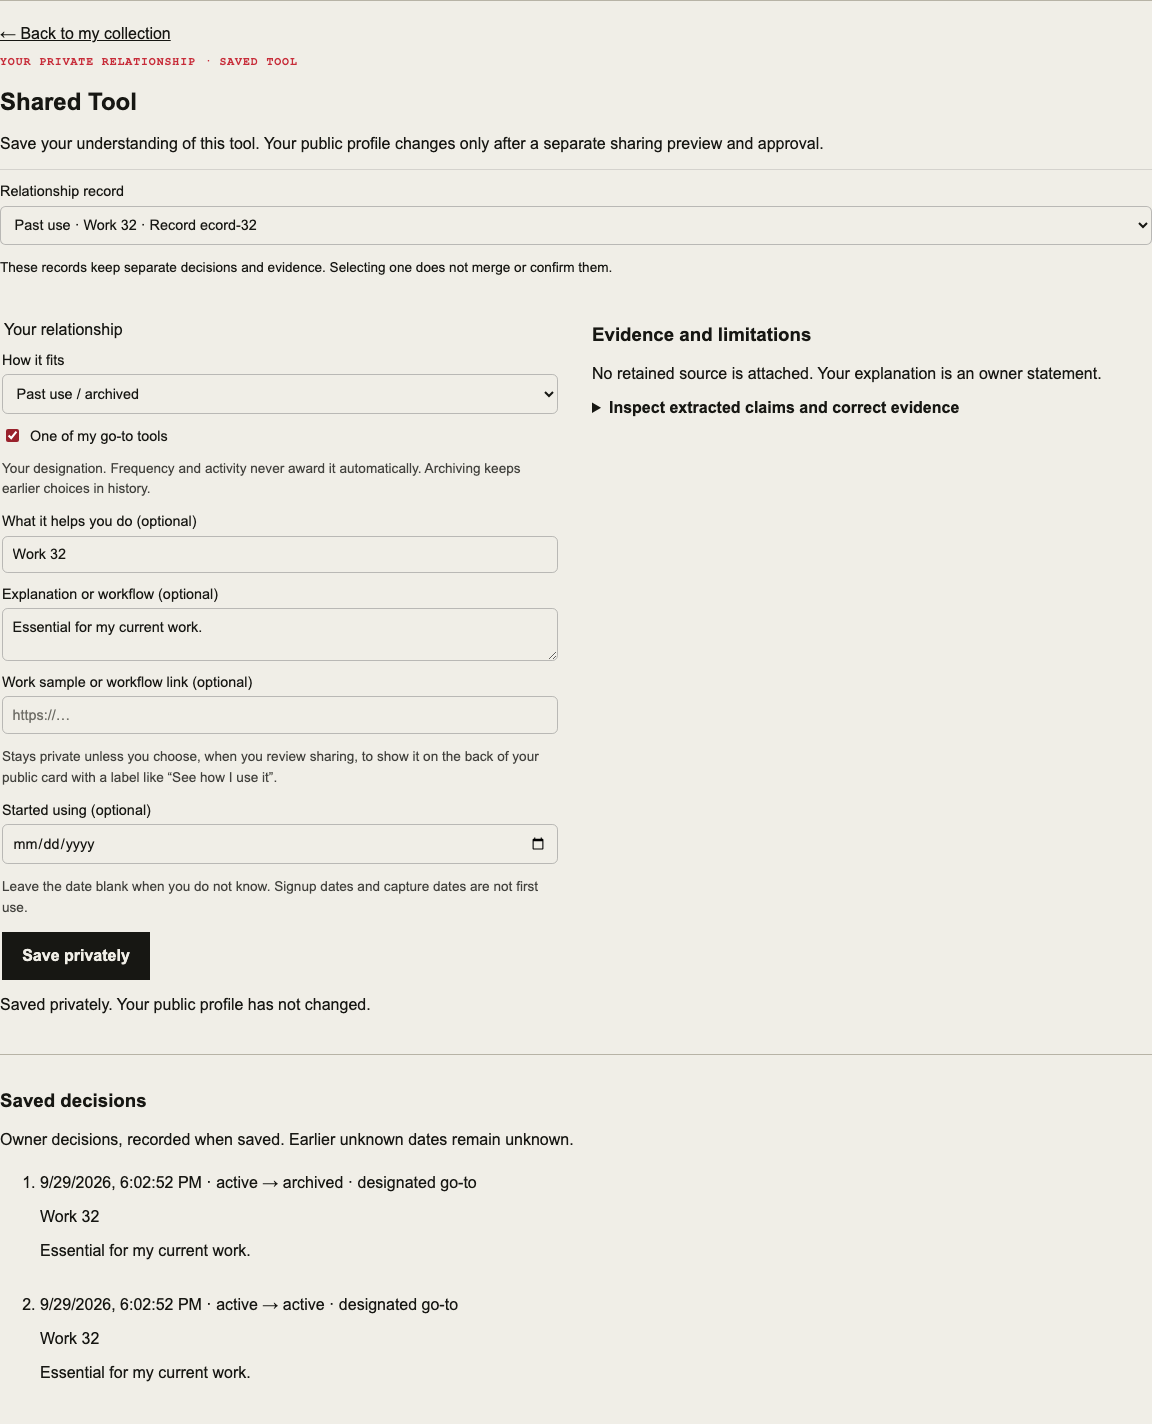
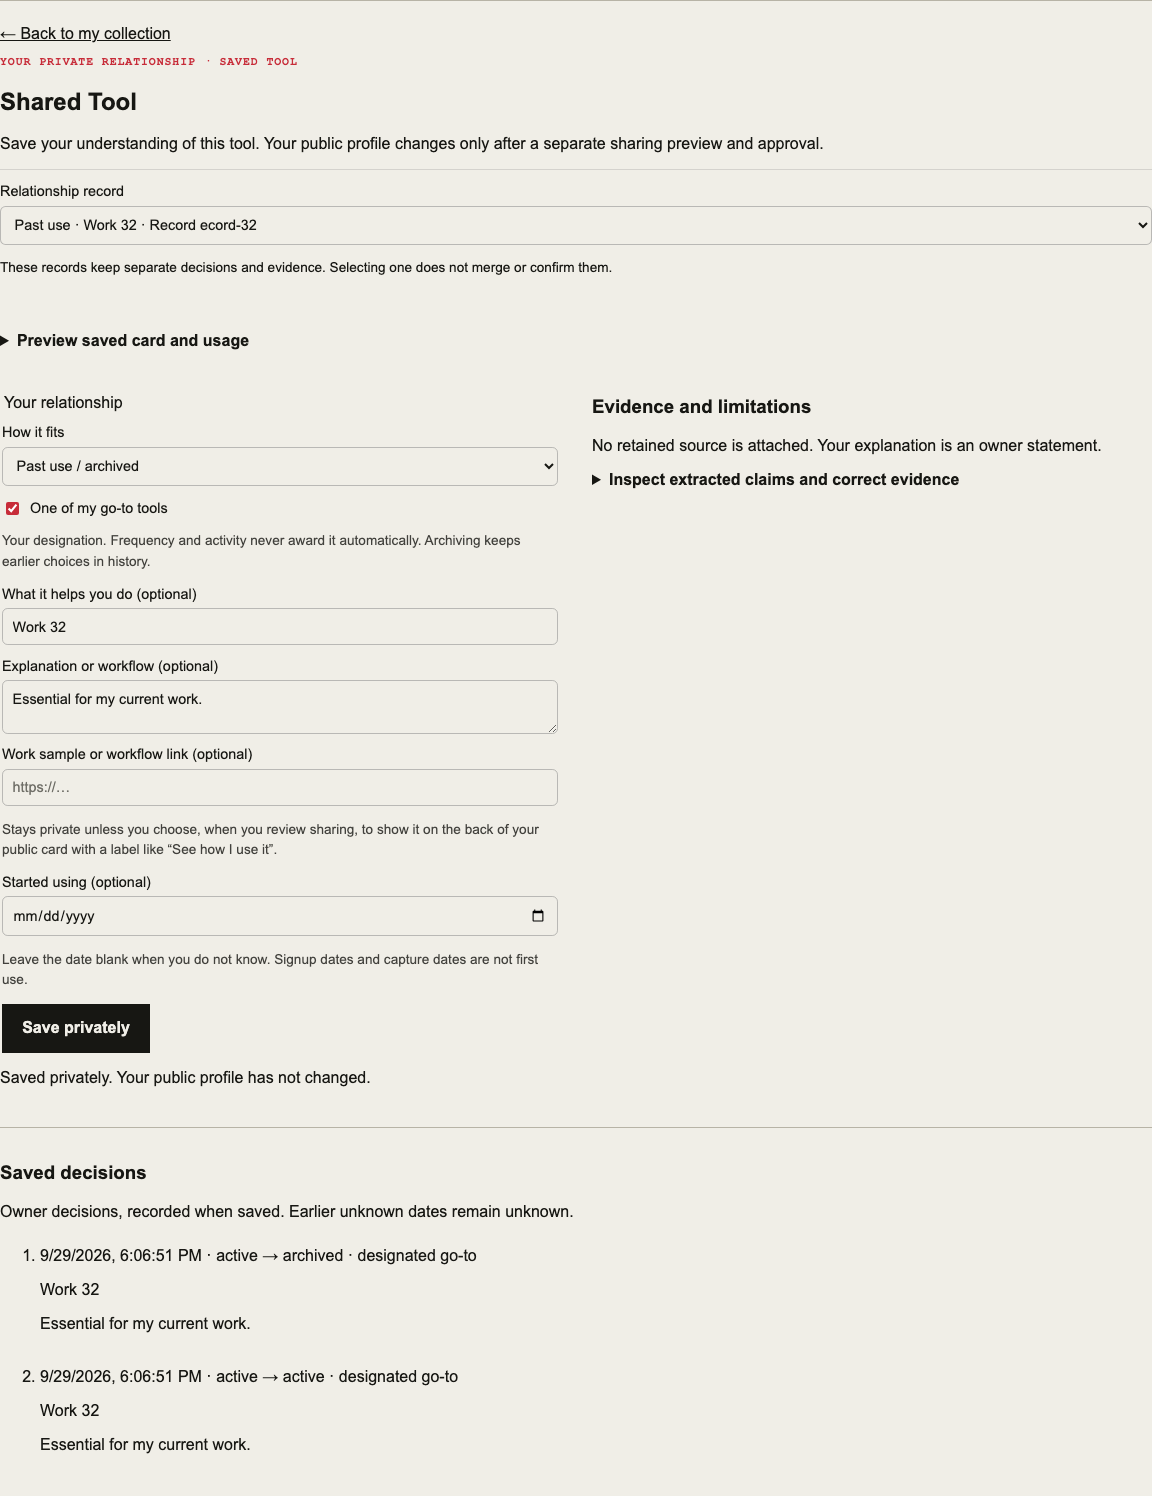
feat: retain saved card inspection in relationship details

Changed region(s): [[0.0, 0.0, 0.9375, 0.7416], [0.0, 0.7725, 0.5, 0.9888], [0.1875, 0.0309, 0.25, 0.0618]]

diff --git a/components/owner-collection.tsx b/components/owner-collection.tsx
@@ -6,7 +6,7 @@ import type { FunctionReturnType } from "convex/server";
 import { api } from "@/convex/_generated/api";
 import type { Id } from "@/convex/_generated/dataModel";
 import { openRelationship, relationshipFromHash, relationshipHref, subscribeRelationship } from "@/src/client/relationship-location";
-import { InventoryDetails, RetainedEvidenceIntake } from "./private-inventory";
+import { InventoryDetails, RetainedEvidenceIntake, SavedRelationshipPreview } from "./private-inventory";
 import { DiscoveryReview } from "./discovery-review";
 import styles from "./private-inventory.module.css";
 
@@ -95,6 +95,7 @@ function SelectedRelationship({ propId, brandEnrichmentAvailable }: { propId: st
   if (item === null) return <div role="status"><p>This relationship is unavailable for this account.</p><a href="#private-collection-title">Back to my collection</a></div>;
   return <RelationshipFocus name={item.product.name} label={item.prop.confirmedAt || item.prop.visibility !== "DRAFT" ? "Saved tool" : "Needs your decision"}>
     <RelatedRelationships propId={item.prop._id} />
+    <SavedRelationshipPreview item={item} />
     {item.prop.visibility === "DRAFT" && !item.prop.confirmedAt && <p>Not sure this belongs? <a href="#private-collection-title">Leave it as an undecided discovery</a>. Opening or leaving this record does not confirm use.</p>}
     <InventoryDetails item={item} onSave={save} brandEnrichmentAvailable={brandEnrichmentAvailable} focused />
   </RelationshipFocus>;

diff --git a/components/private-inventory.tsx b/components/private-inventory.tsx
@@ -215,6 +215,17 @@ function InventoryCard({ item, index }: { item: Item; index: number }) {
   }} />;
 }
 
+export function SavedRelationshipPreview({ item }: { item: Item }) {
+  const [open, setOpen] = useState(false);
+  return <details className={styles.savedPreview} onToggle={event => setOpen(event.currentTarget.open)}>
+    <summary>Preview saved card and usage</summary>
+    {open && <AccountEvidence propId={item.prop._id} productSlug={item.product.slug}>{(evidence, progress) => <>
+      <InventoryCard item={{ ...item, associatedAccountEvidence: evidence }} index={0} />
+      {progress}
+    </>}</AccountEvidence>}
+  </details>;
+}
+
 export function PrivateInventoryView({ data, onSave, onImport, onLoadMore, renderDetails, renderHistory, renderCard }: {
   renderCard?: (item: Item, index: number) => ReactNode;
   data: InventoryData; onSave: (input: SaveInput) => Promise<SaveResult>;

diff --git a/tests/e2e/account-setup.spec.ts b/tests/e2e/account-setup.spec.ts
@@ -307,6 +307,9 @@ for (const width of [1280, 390]) test(`owner finds later duplicate records, save
   await focused.getByRole("button", { name: "Save privately", exact: true }).click();
   await expect(focused.getByText("Saved privately. Your public profile has not changed.", { exact: true })).toBeVisible();
   await expect(focused.getByRole("heading", { name: "Saved decisions" })).toBeVisible();
+  await focused.getByText("Preview saved card and usage", { exact: true }).click();
+  await expect(focused.locator(".product-card")).toHaveCount(1);
+  await focused.getByText("Preview saved card and usage", { exact: true }).click();
   await focused.getByRole("combobox", { name: "Relationship record", exact: true }).selectOption("record-33");
   await expect(focused.getByLabel("How it fits")).toHaveValue("");
   await expect(focused.getByLabel("Explanation or workflow (optional)")).toHaveValue("");

diff --git a/components/private-inventory.module.css b/components/private-inventory.module.css
@@ -41,3 +41,6 @@
 .savedDecisions { grid-column: 1 / -1; border-top: 1px solid var(--control-line, #8888); padding-top: 1rem; }
 .savedDecisions li { padding-block: .6rem; overflow-wrap: anywhere; }
 @media (max-width: 700px) { .relationshipColumns { grid-template-columns: minmax(0, 1fr); gap: 1rem; } .focus { padding-top: 1rem; } }
+
+.savedPreview { margin-block: 1rem; max-width: 440px; }
+.savedPreview > summary { cursor: pointer; padding-block: .7rem; font-weight: 600; }

diff --git a/docs/verification/2026-09-29-owner-collection-loop.md b/docs/verification/2026-09-29-owner-collection-loop.md
@@ -16,7 +16,9 @@ reload. Adding a product opens the returned relationship ID.
 The focused editor reuses existing status, explicit go-to, explanation, start
 date, work link, evidence inspection, limitations, claim reviews and saved
 decisions. Past use is a status view; saved decisions are recorded-time history.
-An uncertain discovery can be left undecided without saving. Existing retained
+A lazy saved-card preview keeps usage and account-link inspection accessible
+inside the focused relationship. An uncertain discovery can be left undecided
+without saving. Existing retained
 imports, source controls, sharing previews and data export remain available.
 
 No schema, release infrastructure, provider connector or public projection was
@@ -38,6 +40,8 @@ ownership checks. New queries must be released before the new frontend.
   exercised at 1280px and 390px through a synthetic Convex boundary. The journeys
   cover immediate manual-add opening, later-page finding, duplicate switching,
   private save, reload, history, past-use filtering and unchanged publication.
+- After adding the lazy saved-card preview, the 11 affected account/owner-loop
+  browser scenarios passed again, together with typecheck and lint.
 - Existing inventory browser scenarios: 9 passed during this batch.
 - Browser test data is synthetic. Browser reload uses local fixture persistence;
   the fresh authenticated session and ownership checks use convex-test. Neither
